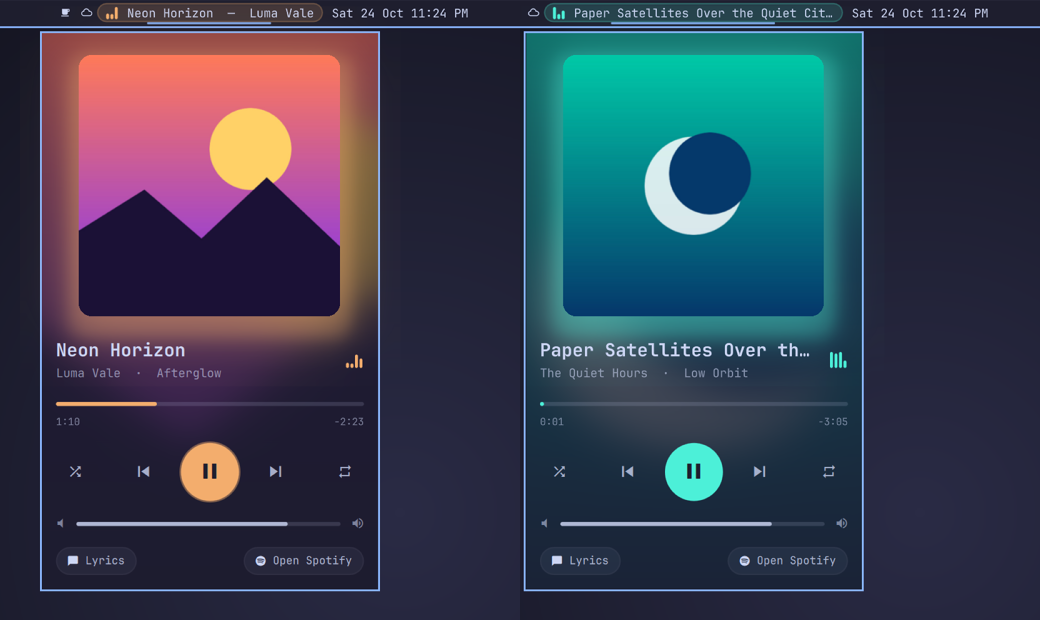
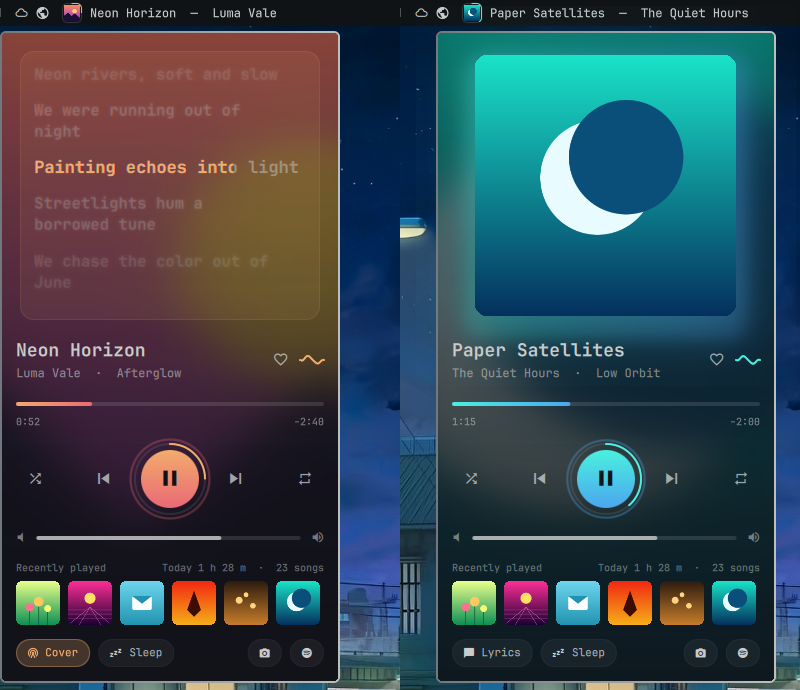
1.1.1: new demo GIF and screenshot, docs for own lyrics
Recorded with a fake MPRIS player, generated covers and original lyrics,
so no real songs or covers appear.

diff --git a/README.md b/README.md
@@ -5,7 +5,7 @@ An animated Spotify player for the [Omarchy](https://omarchy.org) bar.
 The album cover and **Song — Artist** live in your bar, with the song's progress drawn around the cover. Click it for a player card that takes on the colors of whatever's playing: karaoke lyrics, a real audio visualizer, swipe-to-skip, a like button, recently played, a sleep timer and a shareable "Now playing" image.
 
 <p align="center">
-  <img src="assets/demo.gif" alt="Spotify Pulse demo: the player card opens with a large glowing album cover, crossfades to the next track as the whole card shifts from orange to teal, the cover sinks back on pause, and the cover flips over to the lyrics side" width="360">
+  <img src="assets/demo.gif" alt="Spotify Pulse demo: the bar shows a sunset album cover with progress around it; hovering shows a preview; the card opens with the glowing cover, flips to lyrics with the current line filling in orange, then crossfades to a teal and a green album as the whole card changes color; a sleep timer is set" width="360">
 </p>
 
 **Contents:** [Install](#install) · [Quick start](#quick-start) · [The bar](#the-bar) · [The card](#the-card) · [Controls](#controls) · [Settings](#settings) · [Commands](#commands) · [Keyboard shortcuts](#keyboard-shortcuts-for-your-desktop) · [Visualizer](#visualizer) · [Troubleshooting](#troubleshooting) · [Privacy](#privacy) · [Limitations](#limitations) · [Uninstall](#uninstall)
@@ -68,6 +68,10 @@ It hides itself when Spotify isn't running (or shows a dim "Open Spotify" button
 
 ## The card
 
+<p align="center">
+  <img src="preview.png" alt="Two Spotify Pulse cards side by side: one shows the lyrics side with the current line filling in orange over a sunset-tinted card; the other shows a teal moon cover tinting the whole card teal, with a progress ring around the play button and recently played covers below" width="520">
+</p>
+
 ### Look
 - **Cover-first:** a big album cover glowing in its own colors, over a blurred copy of itself that tints the whole card. Or a spinning record with `coverStyle vinyl`.
 - **Two-color album theme:** two colors are taken from each cover. The glow, seek bar, play button and wave use them, and fade smoothly between tracks.
@@ -86,6 +90,7 @@ It hides itself when Spotify isn't running (or shows a dim "Open Spotify" button
 - **Timing off?** Press `[` to show lyrics sooner or `]` for later, half a second at a time. It resets on the next song.
 - **No synced version?** You still get the plain lyrics to scroll through.
 - Lyrics come from [lrclib.net](https://lrclib.net), a free community lyrics database, and are only looked up when you ask (see [Privacy](#privacy)).
+- **Your own lyrics:** for a song lrclib doesn't have (or gets wrong), save them as `~/.local/share/spotify-pulse/lyrics/Artist - Title.lrc` (synced, `[mm:ss.xx] line`) or `.txt` (plain). Use the artist and title exactly as the card shows them, leaving out characters like `/ : ? *`. Your file always wins, and nothing is sent anywhere for that song. Already looked at the song this session? Restart the shell to pick up the new file.
 
 ### ♡ Like
 - Click the heart next to the title, or press `H`: the song is added to (or removed from) your **Liked Songs**. Free accounts work.
@@ -217,7 +222,7 @@ cava listens to your system's audio output, so it reacts to whatever is playing,
 | Nothing changed after installing or updating | Run `omarchy restart shell`. |
 | Nothing in the bar | Spotify Pulse follows the **Spotify desktop app** only (not the web player). Start it, or set `showWhenClosed true`. |
 | Card colors are gray | That cover has little color, so your Omarchy accent is used. Check `albumColors` is on. |
-| "No lyrics for this song" | lrclib.net doesn't have it yet. Anyone can add lyrics there. |
+| "No lyrics for this song" | lrclib.net doesn't have it yet. Anyone can add lyrics there, or save your own `.lrc` file (see [Lyrics](#lyrics)). |
 | "Couldn't reach lrclib.net" | You're offline or lrclib is down. Turn Lyrics off and on to retry. |
 | Lyrics run early or late | Press `[` or `]` with the card open. |
 | Waves don't follow the music | Install cava (`omarchy pkg add cava`). `omarchy-shell spotify-pulse status` shows `"visualizer": "no-cava"` without it. |
@@ -255,7 +260,7 @@ Shared images in `~/Pictures/Spotify Pulse/` are yours to keep or delete. If you
 
 ## Credits
 
-Spotify player detection is adapted from [Spotify Mini](https://github.com/LainsMain/omarchy-spotify-mini) by LainsMain (MIT). The demo uses made-up tracks and generated covers, and shows the 1.0 design.
+Spotify player detection is adapted from [Spotify Mini](https://github.com/LainsMain/omarchy-spotify-mini) by LainsMain (MIT). The demo and screenshot use made-up songs, generated covers and original lyrics.
 
 ## License
 

diff --git a/CHANGELOG.md b/CHANGELOG.md
@@ -1,5 +1,14 @@
 # Changelog
 
+## 1.1.1
+
+After updating, run `omarchy restart shell`.
+
+- **Fixed:** today's listening stats could reset to zero when the shell started while music was playing. They now load before anything is counted, and listening time is saved every minute.
+- **Fixed:** the sleep timer paused several seconds early (QML timers drift); it now goes by the clock, so the fade-out ends exactly on time.
+- **New:** your own lyrics. Save `Artist - Title.lrc` (or `.txt`) in `~/.local/share/spotify-pulse/lyrics/` for songs lrclib doesn't have; it's used first, offline.
+- New demo GIF and screenshot showing the 1.1 design (made-up songs and covers).
+
 ## 1.1.0
 
 After updating, run `omarchy restart shell` so the new version loads.
